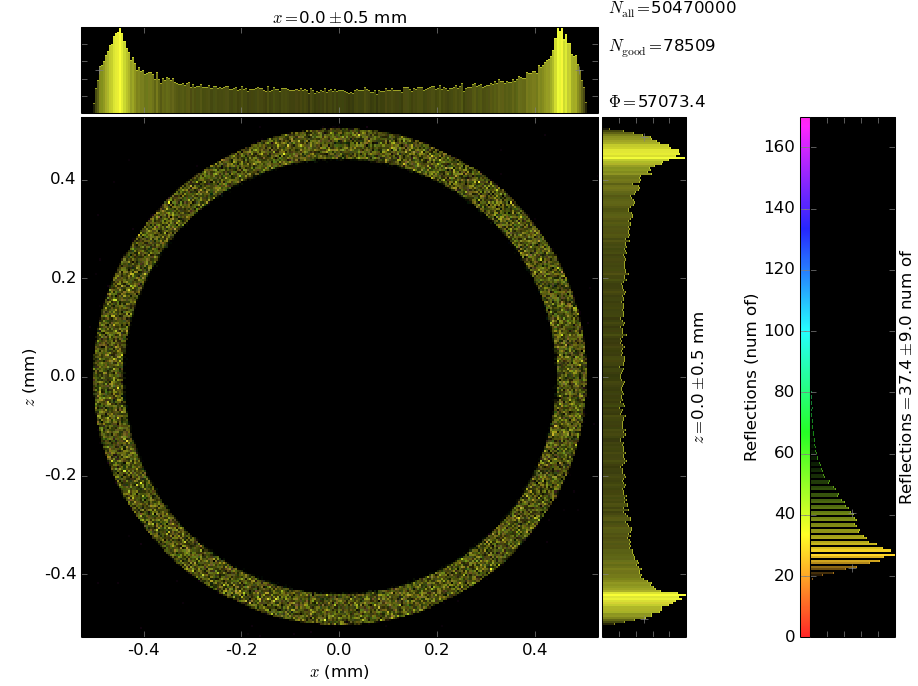
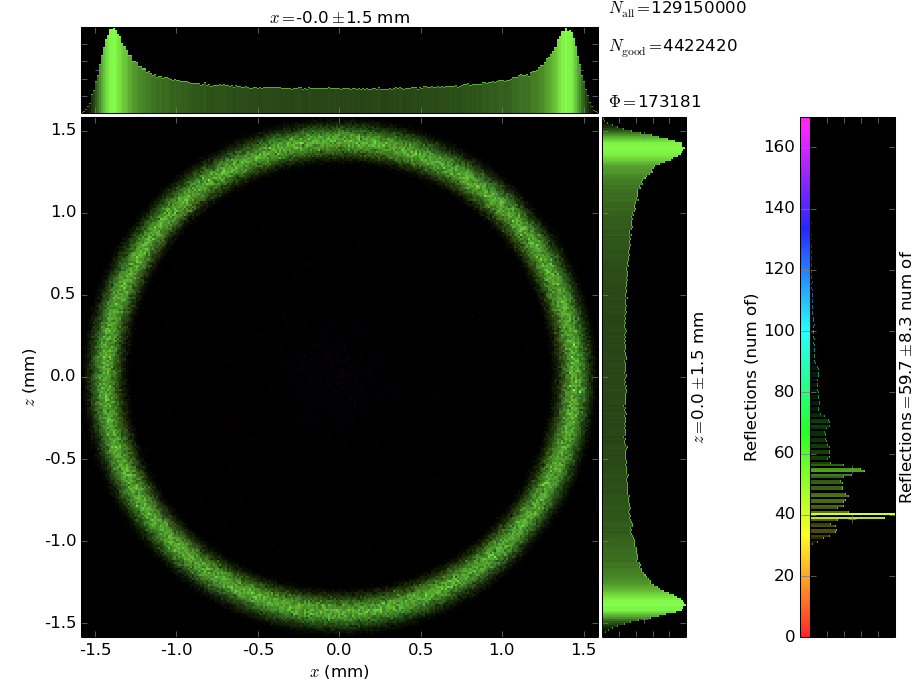
Very long run for circular and symmetric shape
- 6300 x 0.006mm (r)
- L = 100 mm
- f1 = f2 = 15mm

diff --git a/simplfiedPolyCapillary.py b/simplfiedPolyCapillary.py
@@ -34,15 +34,15 @@ E0 = 9000.          # energy in electronoVolts
 nRefl = 170         # number of reflections
 
 # capillary shape parameters
-rSample = 30.0              # starting position of the lens
+rSample = 15.0              # starting position of the lens
 L_      = 100.0               # length of the lens
 f       = rSample + L_     # y length in mm from foucs to the end of the lens
-r0 = 0.002*1
-rOut = 0.002*1
+r0 = 0.006
+rOut = 0.006
 wall = 0.0005
 
 # parameters for local_x0 function for actual shape definition
-x_0		= 0.5
+x_0		= 1.5
 rS      = float(rSample)    # light source - capillary distance 
 # Cosh parameter for tangential ray entrance
 #a_      = -L_/2.0/np.arcsinh(-y_in/rS)
@@ -154,7 +154,7 @@ def build_beamline(nrays=1e4):
 
     alpha = 0.000   # this is so obsolete
     
-    for h_it in range(0,12):
+    for h_it in range(0,10):
         x_in = x_0 - h_it * (2*r0 + 2*wall)
         Obw_tmp = 2*np.pi*x_in
         N_ = int(np.floor( Obw_tmp/(2*r0 + 2*wall) ) )

diff --git a/simplfiedMonoCapillary.py b/simplfiedMonoCapillary.py
@@ -34,16 +34,16 @@ E0 = 9000.          # energy in electronoVolts
 nRefl = 150         # number of reflections
 
 # capillary shape parameters
-rSample = 30.0              # starting position of the lens
+rSample = 15.0              # starting position of the lens
 L_      = 100.0               # length of the lens
 f       = rSample + L_     # y length in mm from foucs to the end of the lens
-r0 = 0.002*1
-rOut = 0.002*1
+r0 = 0.006
+rOut = 0.006
 wall = 0.0005
 
 # parameters for local_x0 function for actual shape definition
 # those should get moved to Capillary definition
-y_in    = 1.12              # entrance height
+y_in    = 1.5               # entrance height
 rS      = float(rSample)    # light source - capillary distance 
 # Cosh parameter for tangential ray entrance
 a_      = -L_/2.0/np.arcsinh(-y_in/rS)
